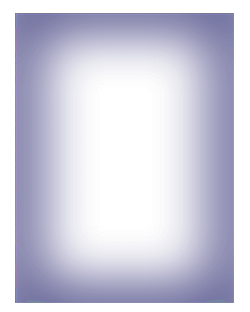
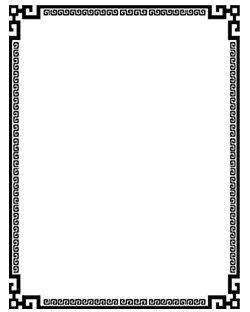
add cardBorder

diff --git a/src/App.tsx b/src/App.tsx
@@ -18,7 +18,38 @@ import femaleFaceJson from "./config/female_face.json";
 import femaleEmojiJson from "./config/female_emoji.json";
 import femaleHairJson from "./config/female_hair.json";
 import glassJson from "./config/glass.json";
-
+const cardBorderJson = [{
+  id:1,
+},{
+  id:2,
+},{
+  id:3,
+},{
+  id:4,
+},{
+  id:5,
+},{
+  id:6,
+},{
+  id:7,
+},{
+  id:8,
+},{
+  id:9,
+  },]
+const cardBgJson = [{
+  id:1,
+},{
+  id:2,
+},{
+  id:3,
+},{
+  id:4,
+},{
+  id:5,
+},{
+  id:6,
+}]
 const baseUrl = 'https://raw.githubusercontent.com/IhsotasTon/ddtank-demo/master/src/assets/ddtank/'
 
 const getRealUrl = (path:string):string => {
@@ -32,9 +63,13 @@ const BodyWrapper = styled.div`
 const AppWrapper = styled.div`
   display:flex;
 `
-const RealImage = function (props:{url:string}) {
-  let [realImg] =useImage(getRealUrl(props.url),'anonymous')
-  return <Image image={realImg} width={250} height={312} x={0} y={0} />
+const RealImage = function (props:{url:string,isCardbg?:boolean}) {
+  let [realImg] = useImage(getRealUrl(props.url), 'anonymous')
+  let width = props.isCardbg ? 250 : 250;
+  let height = props.isCardbg ? 312 : 312;
+  let x = props.isCardbg ? 0 :15;
+  let y=props.isCardbg ? 0 : -12;
+  return <Image image={realImg} width={width} height={height} x={x} y={y} />
 }
 const ListWrapper = styled.div`
   display:grid;
@@ -48,6 +83,8 @@ interface UserSelected  {
   emoji: string
   glass: string
   hair: string
+  cardBg: string
+  cardBorder:string
 }
 let defaultUserSelected = {
   cloth:"cloth410",
@@ -55,7 +92,9 @@ let defaultUserSelected = {
   face:"eff177",
   emoji:"face130",
   glass:"glass197",
-  hair:"hair177",
+  hair: "hair177",
+  cardBg: '1',
+  cardBorder:'1'
 }
 
 const dataSum = {
@@ -75,11 +114,35 @@ const dataSum = {
     emoji: femaleEmojiJson,
     glass:glassJson
   },
+  cardBg: {
+    cardBgJson
+  },
+  cardBorder: {
+    cardBorderJson
+  }
 
 }
+function getUrl(part:string,gender:string,v:any):string {
+  let url = `${part}${part === "glass" ? '' : '/' + gender}/${v.id}/1/show.png`
+  if (part === 'cardBg'||part === 'cardBorder') {
+    url=part+'/'+v.id+'.png'
+  }
+  return url
+}
 export function ItemList(props: { gender: string, part: string, setUserSelected: any, userSelected: UserSelected }) {
-  const { gender, part,setUserSelected,userSelected } = props;
-  let realData = (dataSum as any)[gender][part]
+  const { gender, part, setUserSelected, userSelected } = props;
+  let realData;
+  switch (part) {
+    case 'cardBg':
+      realData=cardBgJson
+      break;
+    case 'cardBorder':
+      realData = cardBorderJson
+      break;
+    default:
+      realData = (dataSum as any)[gender][part]
+      break;
+  }
   let [page, setPage] = useState(1);
   const PER_PAGE = 24;
   const count = Math.ceil(realData.length / PER_PAGE);
@@ -93,7 +156,7 @@ export function ItemList(props: { gender: string, part: string, setUserSelected:
     <div>
       <ListWrapper >
         {_DATA.currentData().map((v:any) => {
-          return <img src={getRealUrl(`${part}${part === "glass" ? '' : '/' + gender}/${v.id}/1/show.png`)} style={{ display: 'block', width: '100%', height: '100%'}} onClick={() => {
+          return <img src={getRealUrl(getUrl(part,gender,v))} style={{ display: 'block', width: '100%', height: '100%'}} onClick={() => {
             setUserSelected({ ...userSelected, [part]: v.id })
           }} alt={v.id}></img>
         })}
@@ -163,7 +226,9 @@ function randomHeros(gender: string, number: number): any[] {
         glass: glassJson[randFrom0ToN(glassJson.length)].id,
         hair: femaleHairJson[randFrom0ToN(femaleHairJson.length)].id,
         head: femaleHeadJson[randFrom0ToN(femaleHeadJson.length)].id,
-        cloth: femaleClothJson[randFrom0ToN(femaleClothJson.length)].id
+        cloth: femaleClothJson[randFrom0ToN(femaleClothJson.length)].id,
+        cardBg: cardBgJson[randFrom0ToN(cardBgJson.length)].id,
+        cardBorderJson: cardBorderJson[randFrom0ToN(cardBorderJson.length)].id
       })
     }
       
@@ -175,7 +240,9 @@ function randomHeros(gender: string, number: number): any[] {
         glass: glassJson[randFrom0ToN(glassJson.length)].id,
         hair: maleHairJson[randFrom0ToN(maleHairJson.length)].id,
         head: maleHeadJson[randFrom0ToN(maleHeadJson.length)].id,
-        cloth: maleClothJson[randFrom0ToN(maleClothJson.length)].id
+        cloth: maleClothJson[randFrom0ToN(maleClothJson.length)].id,
+        cardBg: cardBgJson[randFrom0ToN(cardBgJson.length)].id,
+        cardBorderJson: cardBorderJson[randFrom0ToN(cardBorderJson.length)].id
       })
     }
   }
@@ -194,21 +261,21 @@ function App() {
     
   },[gender])
   
-  const { head, cloth, hair, emoji, face, glass } = userSelected
+  const { head, cloth, hair, emoji, face, glass,cardBg,cardBorder } = userSelected
   return (
     <div>
     <AppWrapper>
       <BodyWrapper>
         <Stage width={250} height={312}>
             <Layer id='1'>
-            <RealImage url={`cardBg/1.png`}></RealImage>
+            <RealImage url={`cardBg/${cardBg}.png`} isCardbg></RealImage>
             <RealImage url={`emoji/${gender}/${emoji}/1/show.png`}></RealImage>
             <RealImage url={`face/${gender}/${face}/1/show.png`}></RealImage>
             <RealImage url={`glass/${glass}/1/show.png`}></RealImage>
             <RealImage url={`hair/${gender}/${hair}/1/show.png`}></RealImage>
             <RealImage url={`head/${gender}/${head}/1/show.png`}></RealImage>
             <RealImage url={`cloth/${gender}/${cloth}/1/show.png`}></RealImage>
-            <RealImage url={`cardBorder/1.png`}></RealImage>
+            <RealImage url={`cardBorder/${cardBorder}.png`} isCardbg></RealImage>
           </Layer>
         </Stage>
         <SelectedGenderWp>
@@ -231,7 +298,7 @@ function App() {
       </BodyWrapper>
       <RightWrapper>
         <TabWrapper>
-        {['cloth', 'head', 'face', 'emoji', 'glass', 'hair'].map(
+        {['cloth', 'head', 'face', 'emoji', 'glass', 'hair','cardBg','cardBorder'].map(
           (item,idx) => {
             return <Tab onClick={() => {
              setPart(item)
@@ -248,13 +315,15 @@ function App() {
           <div style={{ display:'flex',flexDirection:'column'}}>
             <Stage width={250} height={312}>
               <Layer id={item.emoji}>
+                <RealImage url={`cardBg/${item.cardBg}.png`} isCardbg></RealImage>
                 <RealImage url={`emoji/${gender}/${item.emoji}/1/show.png`}></RealImage>
                 <RealImage url={`emoji/${gender}/${item.emoji}/1/show.png`}></RealImage>
                 <RealImage url={`face/${gender}/${item.face}/1/show.png`}></RealImage>
                 <RealImage url={`glass/${item.glass}/1/show.png`}></RealImage>
                 <RealImage url={`hair/${gender}/${item.hair}/1/show.png`}></RealImage>
                 <RealImage url={`head/${gender}/${item.head}/1/show.png`}></RealImage>
-                  <RealImage url={`cloth/${gender}/${item.cloth}/1/show.png`}></RealImage>
+                <RealImage url={`cloth/${gender}/${item.cloth}/1/show.png`}></RealImage>
+                <RealImage url={`cardBorder/${item.cardBorder}.png`} isCardbg></RealImage>
               </Layer>
             </Stage>
             <div>{`${item.cloth}_${item.face}_${item.glass}_${item.hair}_${item.head}_${item.emoji}|`}</div>
